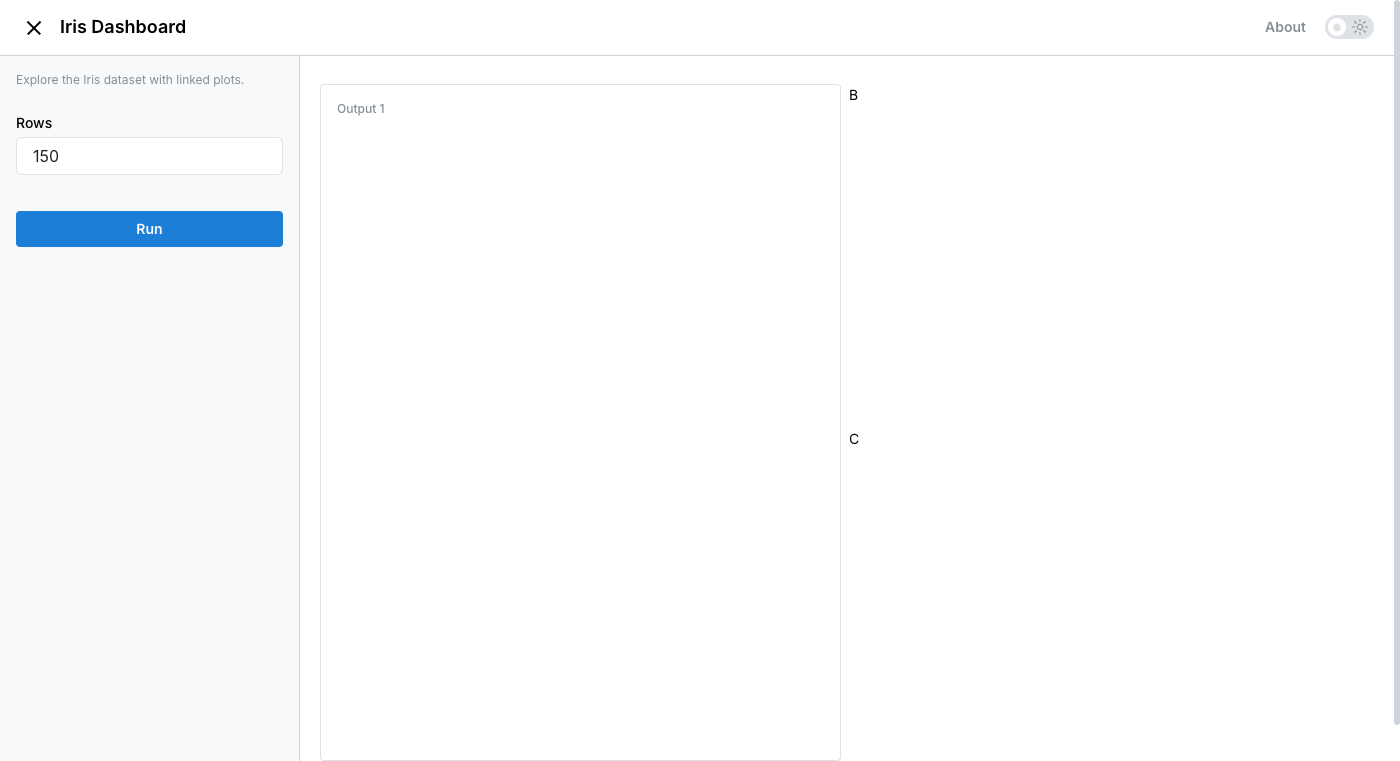
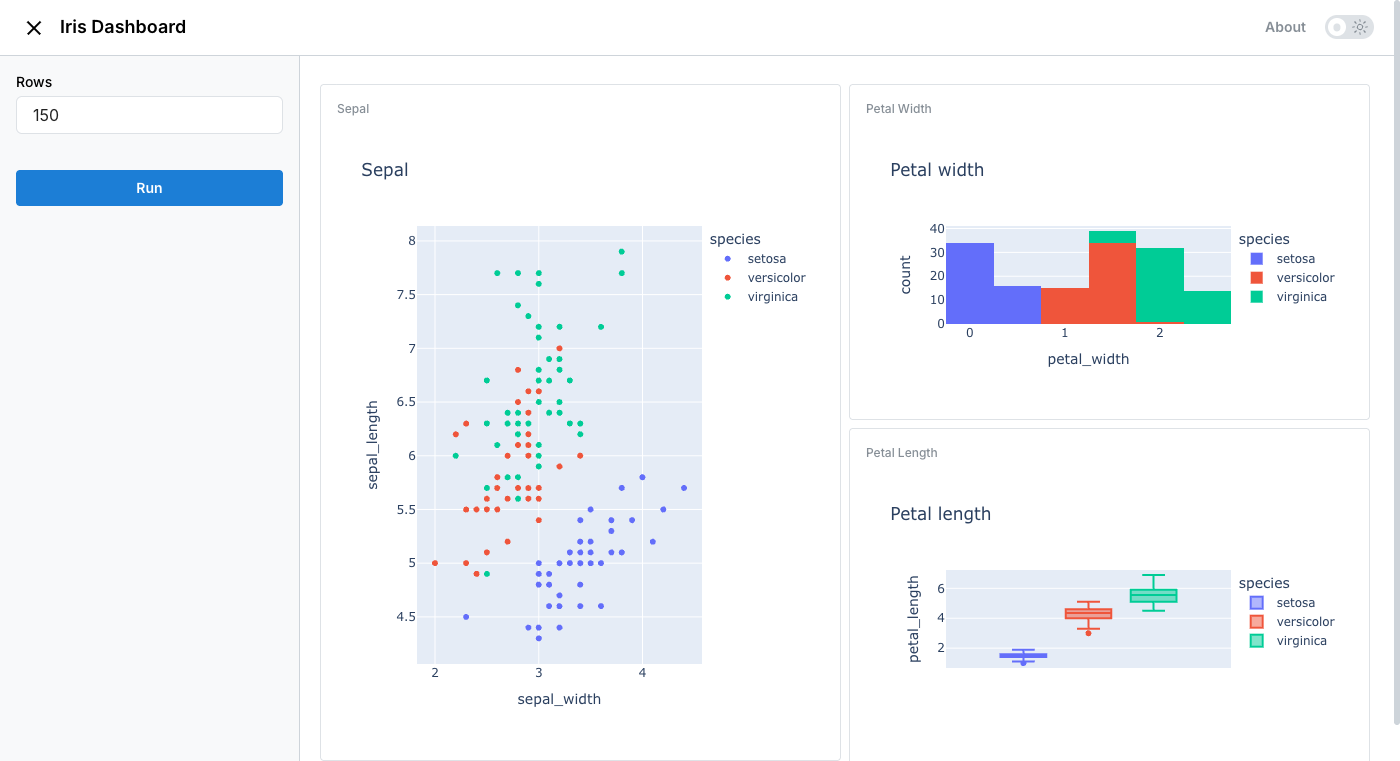
Re-capture mosaic gallery screenshot with consistent panels
The previous mosaic screenshot was the empty/broken first capture
from the batch run (output A had a "Output 1" wrapper panel; slots
B and C didn't have wrappers and just showed the mosaic cell letters).

Re-capture with explicit output_labels and named local variables in
the function body so all three panels render with proper Paper
wrappers and human-readable labels: "Sepal", "Petal width", "Petal
length".

Update the README code block to match — readers who copy-paste the
snippet should get exactly what the screenshot shows.

diff --git a/README.md b/README.md
@@ -77,15 +77,17 @@ Each app below is a single Python function decorated with `@fastdash`. Click any
 from fast_dash import fastdash, Graph
 import plotly.express as px
 
-@fastdash(mosaic="AB\nAC")
+@fastdash(
+    mosaic="AB\nAC",
+    output_labels=["Sepal", "Petal width", "Petal length"],
+)
 def iris_dashboard(rows: int = 150) -> (Graph, Graph, Graph):
     """Explore the Iris dataset with linked plots."""
     df = px.data.iris().head(rows)
-    return (
-        px.scatter(df, x="sepal_width", y="sepal_length", color="species"),
-        px.histogram(df, x="petal_width", color="species"),
-        px.box(df, y="petal_length", color="species"),
-    )
+    sepal = px.scatter(df, x="sepal_width", y="sepal_length", color="species")
+    petal_width = px.histogram(df, x="petal_width", color="species")
+    petal_length = px.box(df, y="petal_length", color="species")
+    return sepal, petal_width, petal_length
 ```
 
 <a name="choropleth-map"></a>